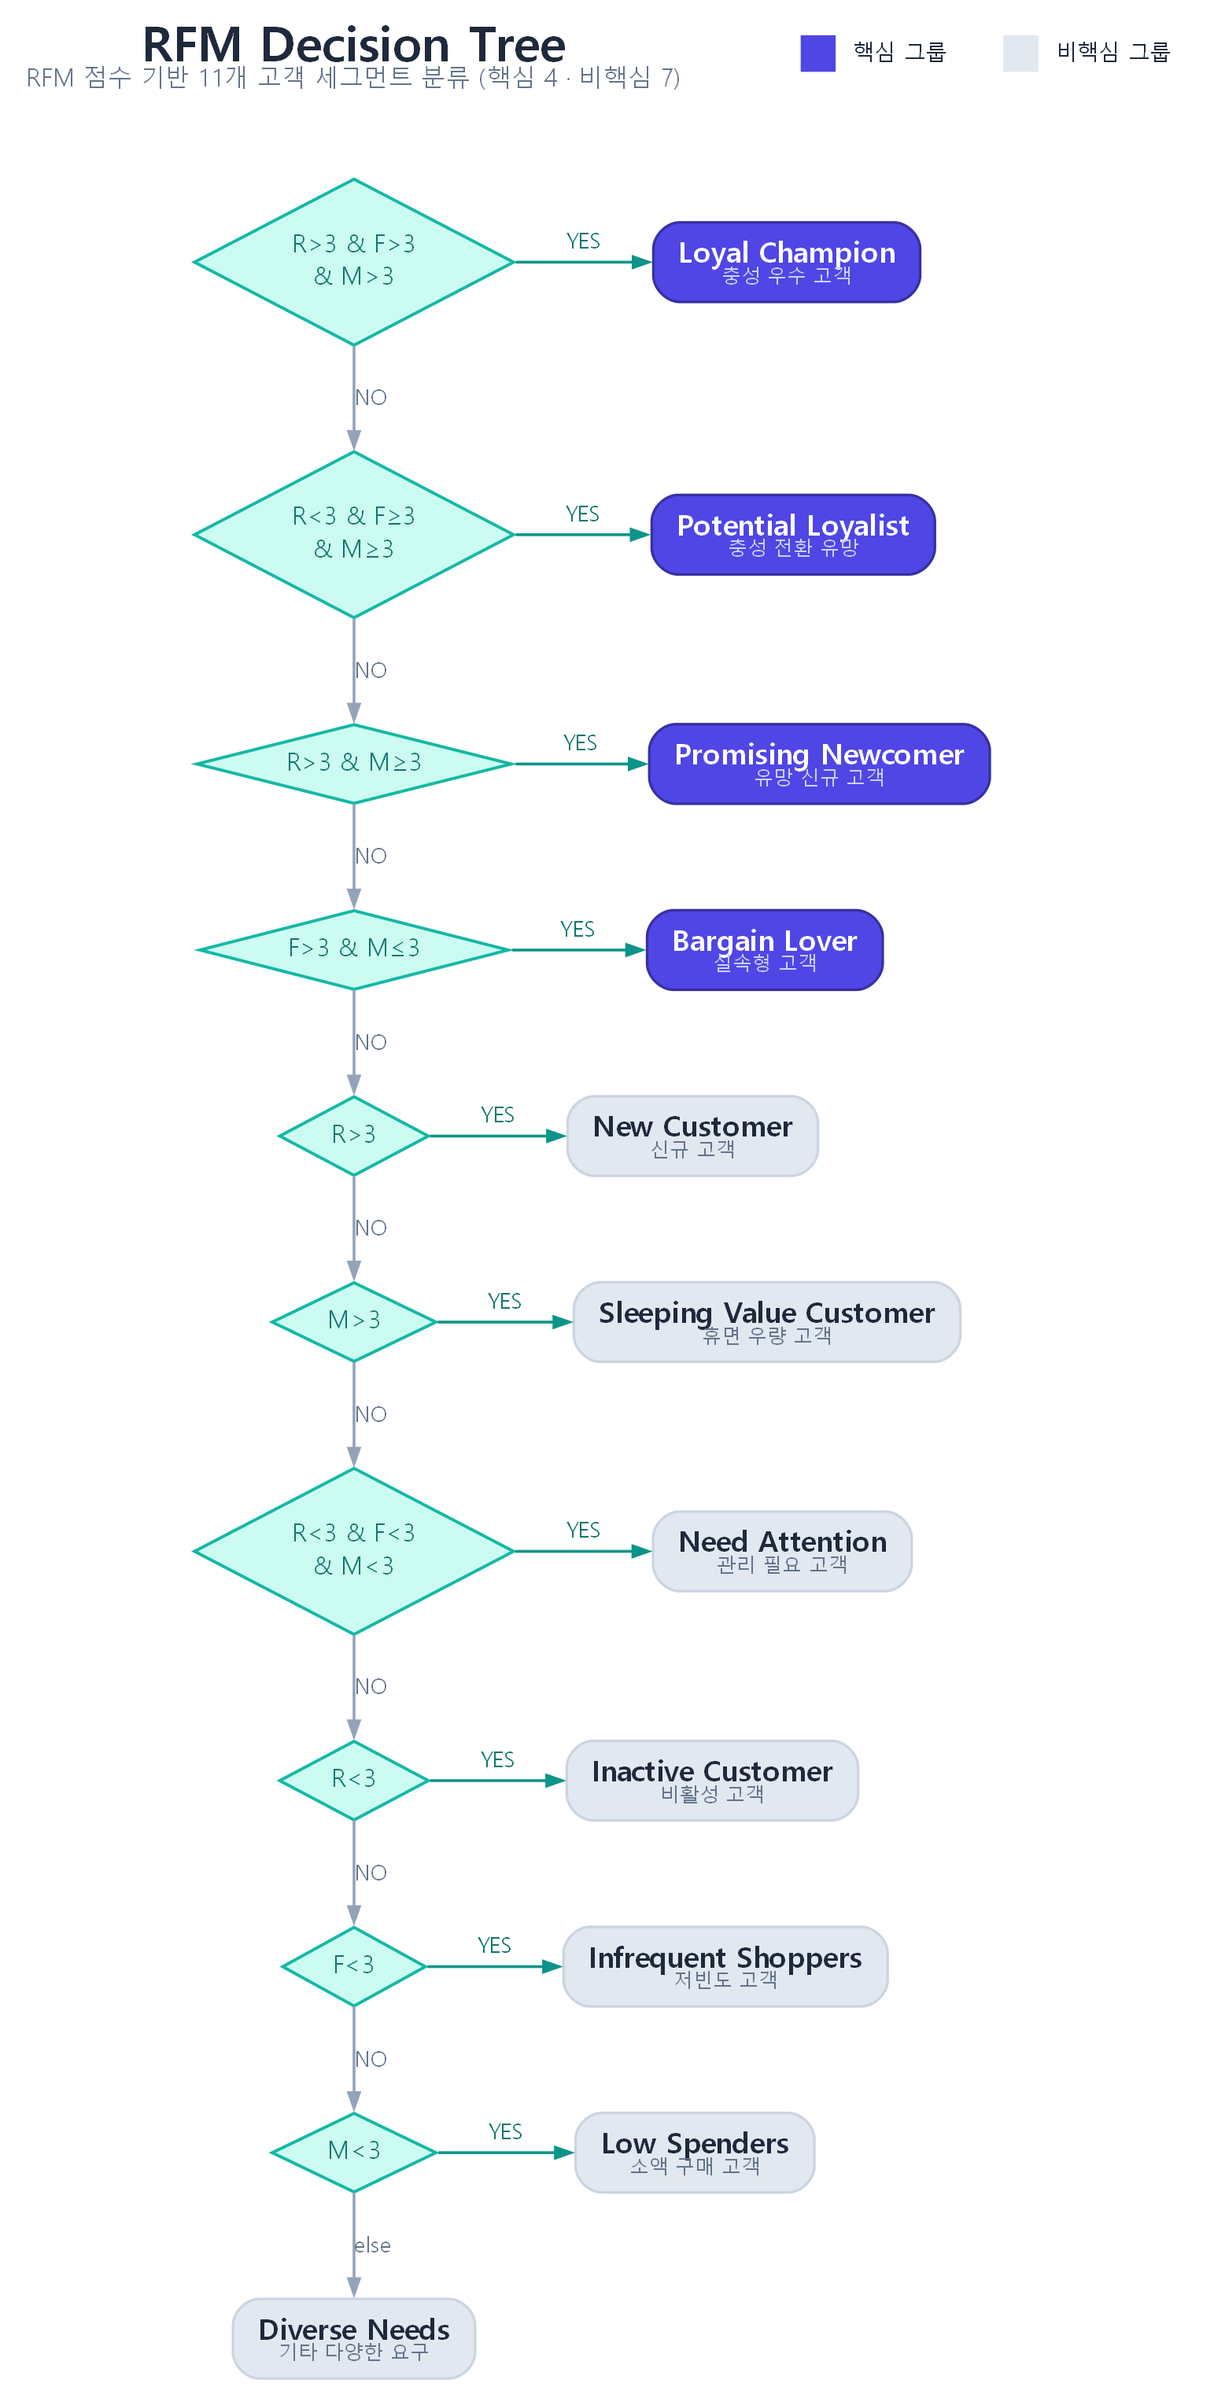
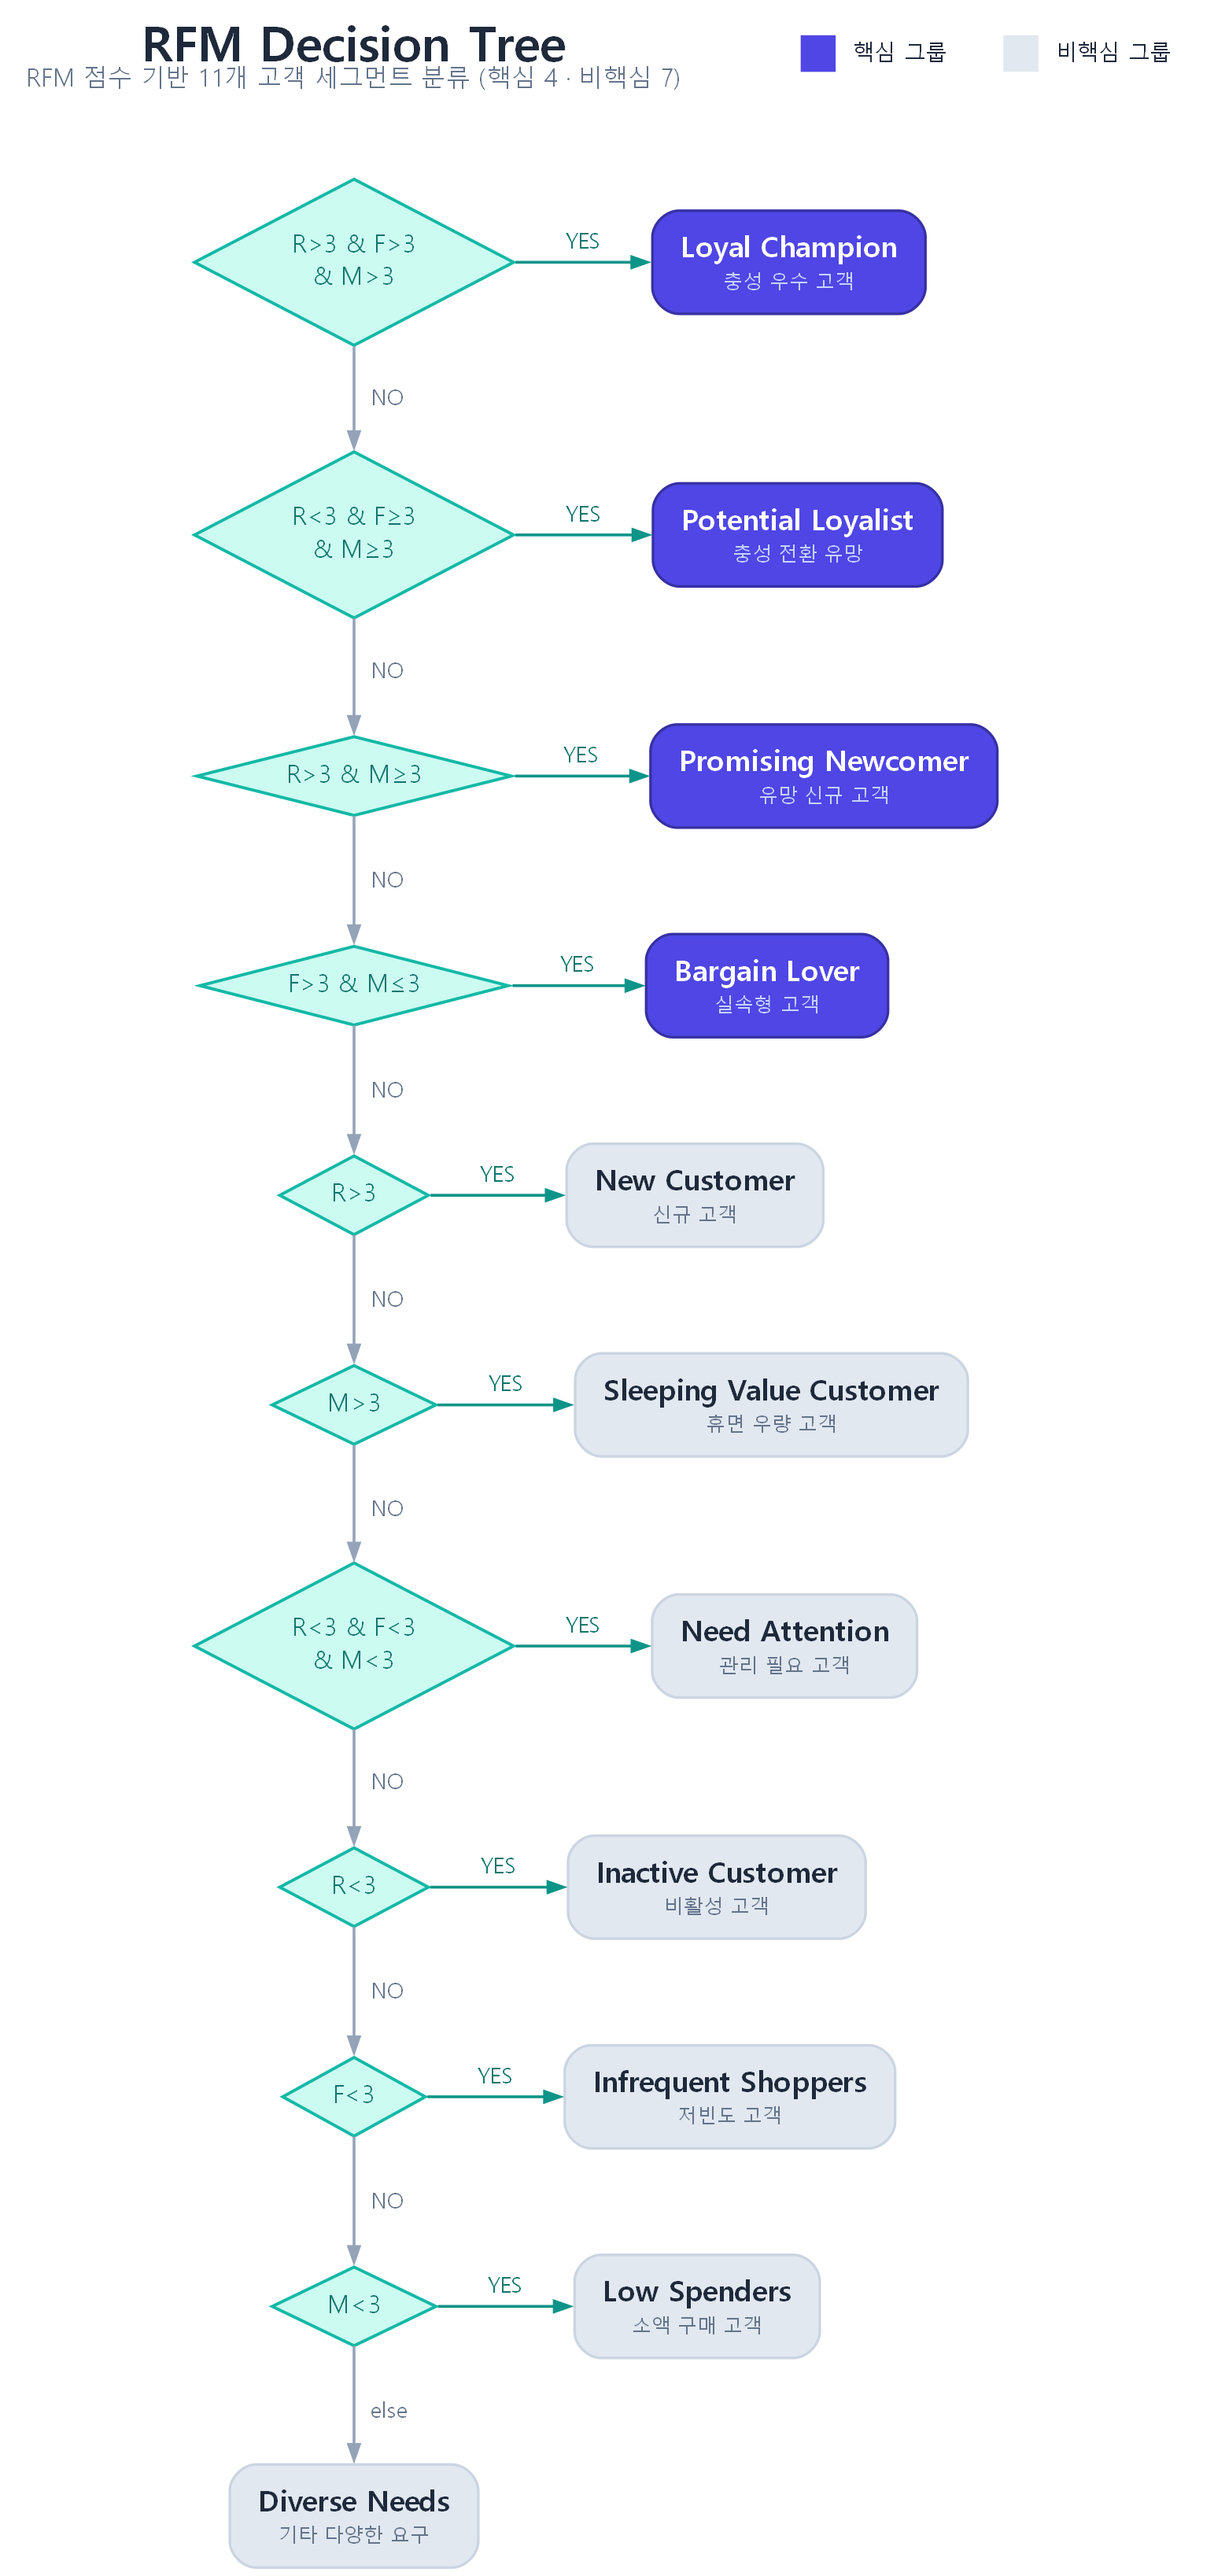
style: Decision Tree 박스 텍스트 간격·NO 라벨 여백 개선
- 세그먼트 박스의 영문명/한글명 사이 줄 간격 추가(겹침 해소), 박스 세로 여백 확대
- 순서도 NO·else 라벨에 좌우 공백 패딩을 넣어 화살표 선과 간격 확보

diff --git a/images/_src/build_images.py b/images/_src/build_images.py
@@ -60,9 +60,10 @@ def leaf_node(nid, en, ko, core):
     sub  = INDIGO_SUB if core else SLATE_SUB
     bd   = INDIGO_DK if core else SLATE_BD
     lab = (f'<<FONT POINT-SIZE="13"><B>{en}</B></FONT>'
+           f'<BR/><FONT POINT-SIZE="5"> </FONT>'
            f'<BR/><FONT POINT-SIZE="9" COLOR="{sub}">{ko}</FONT>>')
     return (f'  "{nid}" [shape=box, style="rounded,filled", fillcolor="{fill}", '
-            f'color="{bd}", penwidth=1.2, fontcolor="{main}", margin="0.16,0.10", label={lab}];\n')
+            f'color="{bd}", penwidth=1.2, fontcolor="{main}", margin="0.18,0.14", label={lab}];\n')
 
 dot = []
 dot.append('digraph RFMTree {')
@@ -103,9 +104,9 @@ for i in range(1, len(STEPS) + 1):
     dot.append(f'  "{c}" -> "{L}" [label="YES", color="{TEAL}", fontcolor="{TEAL_DK}"];')
     dot.append(f'  {{rank=same; "{c}"; "{L}";}}')
     if i < len(STEPS):
-        dot.append(f'  "{c}" -> "c{i+1}" [label="NO", color="{SLATE_EDGE}", fontcolor="{SLATE_SUB}"];')
+        dot.append(f'  "{c}" -> "c{i+1}" [label="  NO  ", color="{SLATE_EDGE}", fontcolor="{SLATE_SUB}"];')
     else:
-        dot.append(f'  "{c}" -> "L11" [label="else", color="{SLATE_EDGE}", fontcolor="{SLATE_SUB}"];')
+        dot.append(f'  "{c}" -> "L11" [label="  else  ", color="{SLATE_EDGE}", fontcolor="{SLATE_SUB}"];')
 dot.append('}')
 render("\n".join(dot), "Decision_Tree_RFM")
 
